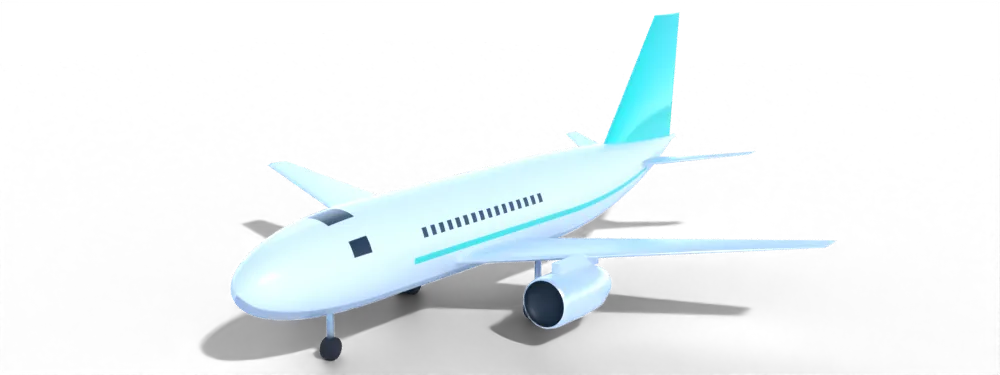
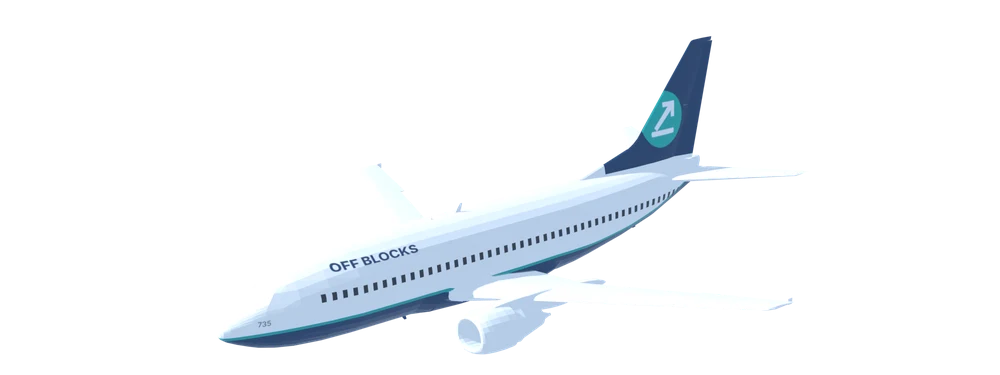
Off Blocks livery: 737-200/500/600, 717, 727, MD-83, Fokker 70/100, ERJ
Claude-Session: https://claude.ai/code/session_01XrFePU9h1hCzy7p7tSHsYD

Changed region(s): [[0.186, 0.0293, 0.837, 1.0], [0.775, 0.792, 0.806, 0.8213]]

diff --git a/sw.js b/sw.js
@@ -1,5 +1,5 @@
 /* Off Blocks service worker. Bump VER to push an update to installed copies. */
-const VER='ob-v54',CORE=["./", "index.html", "manifest.webmanifest", "network.json", "icons/icon-192.png", "icons/icon-512.png", "mapimg/detail.json", "mapimg/sat.webp", "mapimg/terrain.webp", "img/A19N.webp", "img/A19N_side.webp", "img/A20N.webp", "img/A20N_side.webp", "img/A21N.webp", "img/A21N_side.webp", "img/A21X.webp", "img/A21X_side.webp", "img/A306_side.webp", "img/A310.webp", "img/A310_side.webp", "img/A318.webp", "img/A318_side.webp", "img/A319.webp", "img/A319_side.webp", "img/A320.webp", "img/A320_side.webp", "img/A321.webp", "img/A321_side.webp", "img/A332_side.webp", "img/A333_side.webp", "img/A338.webp", "img/A338_side.webp", "img/A339.webp", "img/A339_side.webp", "img/A343_side.webp", "img/A346_side.webp", "img/A359_side.webp", "img/A35K.webp", "img/A35K_side.webp", "img/A388_side.webp", "img/AN24.webp", "img/AR21.webp", "img/AT42_side.webp", "img/AT76_side.webp", "img/B190.webp", "img/B37M.webp", "img/B37M_side.webp", "img/B38M.webp", "img/B38M_side.webp", "img/B39M.webp", "img/B39M_side.webp", "img/B3XM.webp", "img/B3XM_side.webp", "img/B712.webp", "img/B712_side.webp", "img/B722_side.webp", "img/B732.webp", "img/B732_side.webp", "img/B733_side.webp", "img/B734_side.webp", "img/B735.webp", "img/B735_side.webp", "img/B736_side.webp", "img/B737_side.webp", "img/B738_side.webp", "img/B739_side.webp", "img/B744_side.webp", "img/B748_side.webp", "img/B752.webp", "img/B752_side.webp", "img/B753.webp", "img/B753_side.webp", "img/B762.webp", "img/B762_side.webp", "img/B763_side.webp", "img/B764.webp", "img/B764_side.webp", "img/B772_side.webp", "img/B773.webp", "img/B773_side.webp", "img/B779.webp", "img/B779_side.webp", "img/B77L_side.webp", "img/B77W_side.webp", "img/B788_side.webp", "img/B789_side.webp", "img/B78X_side.webp", "img/BCS1_side.webp", "img/BCS3_side.webp", "img/C208.webp", "img/C208_side.webp", "img/C919.webp", "img/C919_side.webp", "img/CRJ2.webp", "img/CRJ2_side.webp", "img/CRJ7_side.webp", "img/CRJ9.webp", "img/CRJ9_side.webp", "img/CRJX_side.webp", "img/D328.webp", "img/DH8A.webp", "img/DH8A_side.webp", "img/DH8C_side.webp", "img/DH8D_side.webp", "img/DHC6_side.webp", "img/E120.webp", "img/E120_side.webp", "img/E135.webp", "img/E135_side.webp", "img/E140.webp", "img/E140_side.webp", "img/E145.webp", "img/E145_side.webp", "img/E170_side.webp", "img/E175_side.webp", "img/E190_side.webp", "img/E195.webp", "img/E195_side.webp", "img/E290_side.webp", "img/E295.webp", "img/E295_side.webp", "img/E75X.webp", "img/E75X_side.webp", "img/F100.webp", "img/F100_side.webp", "img/F50.webp", "img/F50_side.webp", "img/F70.webp", "img/F70_side.webp", "img/J41.webp", "img/L410.webp", "img/L410_side.webp", "img/MA60.webp", "img/MD83.webp", "img/MD83_side.webp", "img/MD90.webp", "img/MD90_side.webp", "img/RJ1H.webp", "img/RJ1H_side.webp", "img/RJ85.webp", "img/RJ85_side.webp", "img/SB20.webp", "img/SF34_side.webp", "img/T154.webp", "img/T154_side.webp"];
+const VER='ob-v55',CORE=["./", "index.html", "manifest.webmanifest", "network.json", "icons/icon-192.png", "icons/icon-512.png", "mapimg/detail.json", "mapimg/sat.webp", "mapimg/terrain.webp", "img/A19N.webp", "img/A19N_side.webp", "img/A20N.webp", "img/A20N_side.webp", "img/A21N.webp", "img/A21N_side.webp", "img/A21X.webp", "img/A21X_side.webp", "img/A306_side.webp", "img/A310.webp", "img/A310_side.webp", "img/A318.webp", "img/A318_side.webp", "img/A319.webp", "img/A319_side.webp", "img/A320.webp", "img/A320_side.webp", "img/A321.webp", "img/A321_side.webp", "img/A332_side.webp", "img/A333_side.webp", "img/A338.webp", "img/A338_side.webp", "img/A339.webp", "img/A339_side.webp", "img/A343_side.webp", "img/A346_side.webp", "img/A359_side.webp", "img/A35K.webp", "img/A35K_side.webp", "img/A388_side.webp", "img/AN24.webp", "img/AR21.webp", "img/AT42_side.webp", "img/AT76_side.webp", "img/B190.webp", "img/B37M.webp", "img/B37M_side.webp", "img/B38M.webp", "img/B38M_side.webp", "img/B39M.webp", "img/B39M_side.webp", "img/B3XM.webp", "img/B3XM_side.webp", "img/B712.webp", "img/B712_side.webp", "img/B722_side.webp", "img/B732.webp", "img/B732_side.webp", "img/B733_side.webp", "img/B734_side.webp", "img/B735.webp", "img/B735_side.webp", "img/B736_side.webp", "img/B737_side.webp", "img/B738_side.webp", "img/B739_side.webp", "img/B744_side.webp", "img/B748_side.webp", "img/B752.webp", "img/B752_side.webp", "img/B753.webp", "img/B753_side.webp", "img/B762.webp", "img/B762_side.webp", "img/B763_side.webp", "img/B764.webp", "img/B764_side.webp", "img/B772_side.webp", "img/B773.webp", "img/B773_side.webp", "img/B779.webp", "img/B779_side.webp", "img/B77L_side.webp", "img/B77W_side.webp", "img/B788_side.webp", "img/B789_side.webp", "img/B78X_side.webp", "img/BCS1_side.webp", "img/BCS3_side.webp", "img/C208.webp", "img/C208_side.webp", "img/C919.webp", "img/C919_side.webp", "img/CRJ2.webp", "img/CRJ2_side.webp", "img/CRJ7_side.webp", "img/CRJ9.webp", "img/CRJ9_side.webp", "img/CRJX_side.webp", "img/D328.webp", "img/DH8A.webp", "img/DH8A_side.webp", "img/DH8C_side.webp", "img/DH8D_side.webp", "img/DHC6_side.webp", "img/E120.webp", "img/E120_side.webp", "img/E135.webp", "img/E135_side.webp", "img/E140.webp", "img/E140_side.webp", "img/E145.webp", "img/E145_side.webp", "img/E170_side.webp", "img/E175_side.webp", "img/E190_side.webp", "img/E195.webp", "img/E195_side.webp", "img/E290_side.webp", "img/E295.webp", "img/E295_side.webp", "img/E75X.webp", "img/E75X_side.webp", "img/F100.webp", "img/F100_side.webp", "img/F50.webp", "img/F50_side.webp", "img/F70.webp", "img/F70_side.webp", "img/J41.webp", "img/L410.webp", "img/L410_side.webp", "img/MA60.webp", "img/MD83.webp", "img/MD83_side.webp", "img/MD90.webp", "img/MD90_side.webp", "img/RJ1H.webp", "img/RJ1H_side.webp", "img/RJ85.webp", "img/RJ85_side.webp", "img/SB20.webp", "img/SF34_side.webp", "img/T154.webp", "img/T154_side.webp"];
 self.addEventListener('install',e=>{e.waitUntil(caches.open(VER).then(c=>Promise.all(CORE.map(u=>c.add(u).catch(()=>0)))).then(()=>self.skipWaiting()))});
 self.addEventListener('activate',e=>{e.waitUntil(caches.keys().then(k=>Promise.all(k.filter(x=>x!==VER).map(x=>caches.delete(x)))).then(()=>self.clients.claim()))});
 self.addEventListener('fetch',e=>{const r=e.request,u=new URL(r.url);if(r.method!=='GET'||u.origin!==location.origin)return;

diff --git a/index.html b/index.html
@@ -180,7 +180,7 @@ const lvBase=src=>new Promise(res=>{if(LVI.base[src])return res(LVI.base[src]);c
 const PHOTOS_OFF={B39M:{src:'img/B39M_photo.webp',by:'Clemens Vasters',lic:'CC BY 2.0',lu:'https://creativecommons.org/licenses/by/2.0/',url:'https://commons.wikimedia.org/wiki/File:N7379E_-_Boeing_737_MAX_9.jpg',n:'Boeing 737 MAX 9'}};
 const PHOTOS={};
 /* types with a finished Off Blocks livery render: shown as-is, no repaint */
-const LVNAT={B38M:1,B39M:1,A318:1,A319:1,A320:1,A321:1,A19N:1,A20N:1,A21N:1,A21X:1,A332:1,A333:1,A338:1,A339:1,A343:1,A346:1,A359:1,A35K:1,B772:1,B773:1,B77L:1,B77W:1,B777:1,B779:1,B788:1,B789:1,B78X:1,B787:1,B752:1,B753:1,B762:1,B763:1,B764:1,E170:1,E175:1,E75L:1,E75X:1,E190:1,E195:1,E290:1,E295:1,CRJ7:1,CRJ2:1,CRJ9:1,CRJX:1,BCS1:1,BCS3:1,AT76:1,AT72:1,AT75:1,AT73:1,DH8D:1,DH8C:1,DH8B:1,DH8A:1,SF34:1,AT43:1,AT44:1,AT45:1,AT46:1,B737:1,B738:1,B739:1,A306:1,B748:1,B744:1,A388:1,DHC6:1,B37M:1,B3XM:1,AT42:1};
+const LVNAT={B38M:1,B39M:1,A318:1,A319:1,A320:1,A321:1,A19N:1,A20N:1,A21N:1,A21X:1,A332:1,A333:1,A338:1,A339:1,A343:1,A346:1,A359:1,A35K:1,B772:1,B773:1,B77L:1,B77W:1,B777:1,B779:1,B788:1,B789:1,B78X:1,B787:1,B752:1,B753:1,B762:1,B763:1,B764:1,E170:1,E175:1,E75L:1,E75X:1,E190:1,E195:1,E290:1,E295:1,CRJ7:1,CRJ2:1,CRJ9:1,CRJX:1,BCS1:1,BCS3:1,AT76:1,AT72:1,AT75:1,AT73:1,DH8D:1,DH8C:1,DH8B:1,DH8A:1,SF34:1,AT43:1,AT44:1,AT45:1,AT46:1,B737:1,B738:1,B739:1,A306:1,B748:1,B744:1,A388:1,DHC6:1,B37M:1,B3XM:1,AT42:1,B735:1,B732:1,B736:1,B712:1,B722:1,MD83:1,F100:1,F70:1,E145:1,E135:1,E140:1};
 const lvSrc=(c,v,l)=>LVI.cache[lvKey(c,v,l)]||'img/'+c+(v==='s'?'_side':'')+'.webp';
 /* natural white: the renders come out blue-grey, so lift and neutralise every light, low-saturation pixel (windows, gear and dark detail are left alone) */
 function lvRefL(d,A){const a=[];for(let i=0;i<A.length;i+=7){if(!A[i])continue;const j=i*4,r=d[j],g=d[j+1],b=d[j+2],mx=Math.max(r,g,b),lu=.3*r+.59*g+.11*b;if(lu>110&&(mx-Math.min(r,g,b))/(mx||1)<.36)a.push(lu)}if(!a.length)return 190;a.sort((p,q)=>p-q);return a[a.length>>1]}
